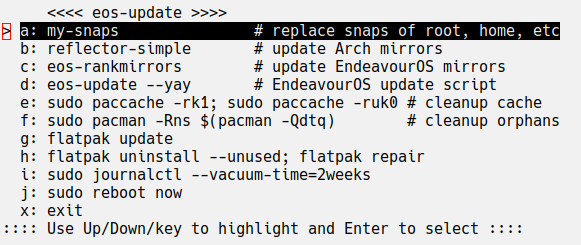
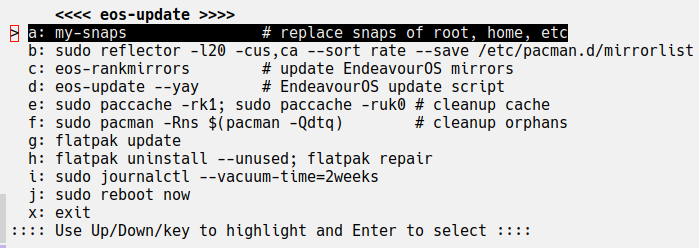
make keys single character

Changed region(s): [[0.0, 0.0286, 0.9914, 1.0]]

diff --git a/rungs/rungs.py b/rungs/rungs.py
@@ -6,6 +6,7 @@
 """
 # pylint: disable=import-outside-toplevel,invalid-name
 # pylint: disable=too-many-branches,broad-exception-caught
+# pylint: disable=too-many-instance-attributes
 
 import os
 import traceback
@@ -52,13 +53,13 @@ class Rungs:
                 f.write('   command-b\n')
                 f.write('x: exit\n')
         self.config = ConfigParser(interpolation=None)
-        self.config.optionxform = str # makes keys case sensitive
-                      
+        self.config.optionxform = lambda x: str(x)[:1] # makes keys case sensitive
+
         self.read_file()
         for section, options in self.config.items():
             if section != 'DEFAULT':
                 self.menus[section] = options
-                
+
     def read_file(self):
         """ Read the config file ... if not working, try the backup file"""
         try:
@@ -70,7 +71,7 @@ class Rungs:
             self.config.read(filenames=[self.config_backup], encoding='utf-8')
             self.corrupt_config = True
             return
-            
+
         # after every successful read of the original, copy it to the backup as
         # last known good copy
         shutil.copy(self.config_file, self.config_backup)

diff --git a/README.md b/README.md
@@ -30,18 +30,18 @@ Notes:
   * `exit` which means exit the menu.
   * `rungs {menu-name}` runs rungs recursively using `python3`
 * To run a command:
-  * highlight the command by typing the character before the ':' or move the cursor with the up/down arrow keys.
+  * highlight the command by typing the "key" before the ':' or move the cursor with the up/down arrow keys.
   * then press ENTER.
 * After the command runs, the next command is highlighted and runs with just ENTER if desired.
 * To, repeat and skip commands, just select another command rather than the next.
 * **IMPORTANT: If the menu does not fit within your terminal, then resize until it does fit.**
 
-## Config: `~/.config/rungs/rungs.ini`
+## `rungs` Config: `~/.config/rungs/rungs.ini`
 Edit `~/.config/rungs/rungs.ini` to configure your menu. The "eos-update-menu" was configured by adding this section:
 ```
 [eos-update]
 a: my-snaps               # replace snaps of root, home, etc 
-b: reflector-simple       # update Arch mirrors
+b: sudo reflector -l20 -cus,ca --sort rate --save /etc/pacman.d/mirrorlist
 c: eos-rankmirrors        # update EndeavourOS mirrors
 d: eos-update --yay       # EndeavourOS update script
 e: sudo paccache -rk1; sudo paccache -ruk0 # cleanup cache
@@ -57,6 +57,10 @@ So, the config looks nearly the same as the menu, but if you specify a multiline
 * the subsequent lines are given to bash literally.
 
 In this manner, for very complicated commands, you can provide a summary description of what is to be run.
+
+Additionally:
+* keys must be a single character and unique
+* if you specify an multicharacter key, only the lead character is used in the menu
 
 ## `rungs` Command Line
 ```
